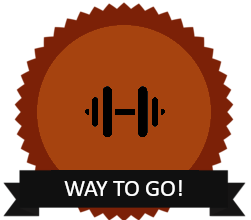
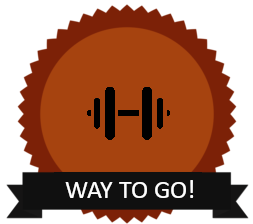
Fix achievement display dimensions

diff --git a/webapp/src/components/ProfilePage.vue b/webapp/src/components/ProfilePage.vue
@@ -44,11 +44,12 @@
                 >
                     <v-expansion-panel-header disable-icon-rotate>
                         <div class="achievement-title">
-                            <v-img contain :src='achievement+".PNG"' height="85%" width="85%"/>
-                        </div><span class="achievement-name">{{$t('achievements.title.'+achievement)}}</span>
+                            <v-img contain :src='achievement+".PNG"' height="75%" width="75%"/>
+                        </div><span class="achievement-name">     </span>
                     </v-expansion-panel-header>
                     <v-expansion-panel-content >
-                       {{ $t('achievements.desc.'+achievement)}}
+                        <h3>{{ $t('achievements.title.'+achievement)}}</h3>
+                        <p>{{ $t('achievements.desc.'+achievement)}}</p>
                     </v-expansion-panel-content>
                 </v-expansion-panel>
             </v-expansion-panels>
@@ -186,7 +187,7 @@
     }
 
     .achievement-name{
-        font: 125% "Lucida Sans", sans-serif;
+        font: 100% "Lucida Sans", sans-serif;
     }
 
     tr td {
